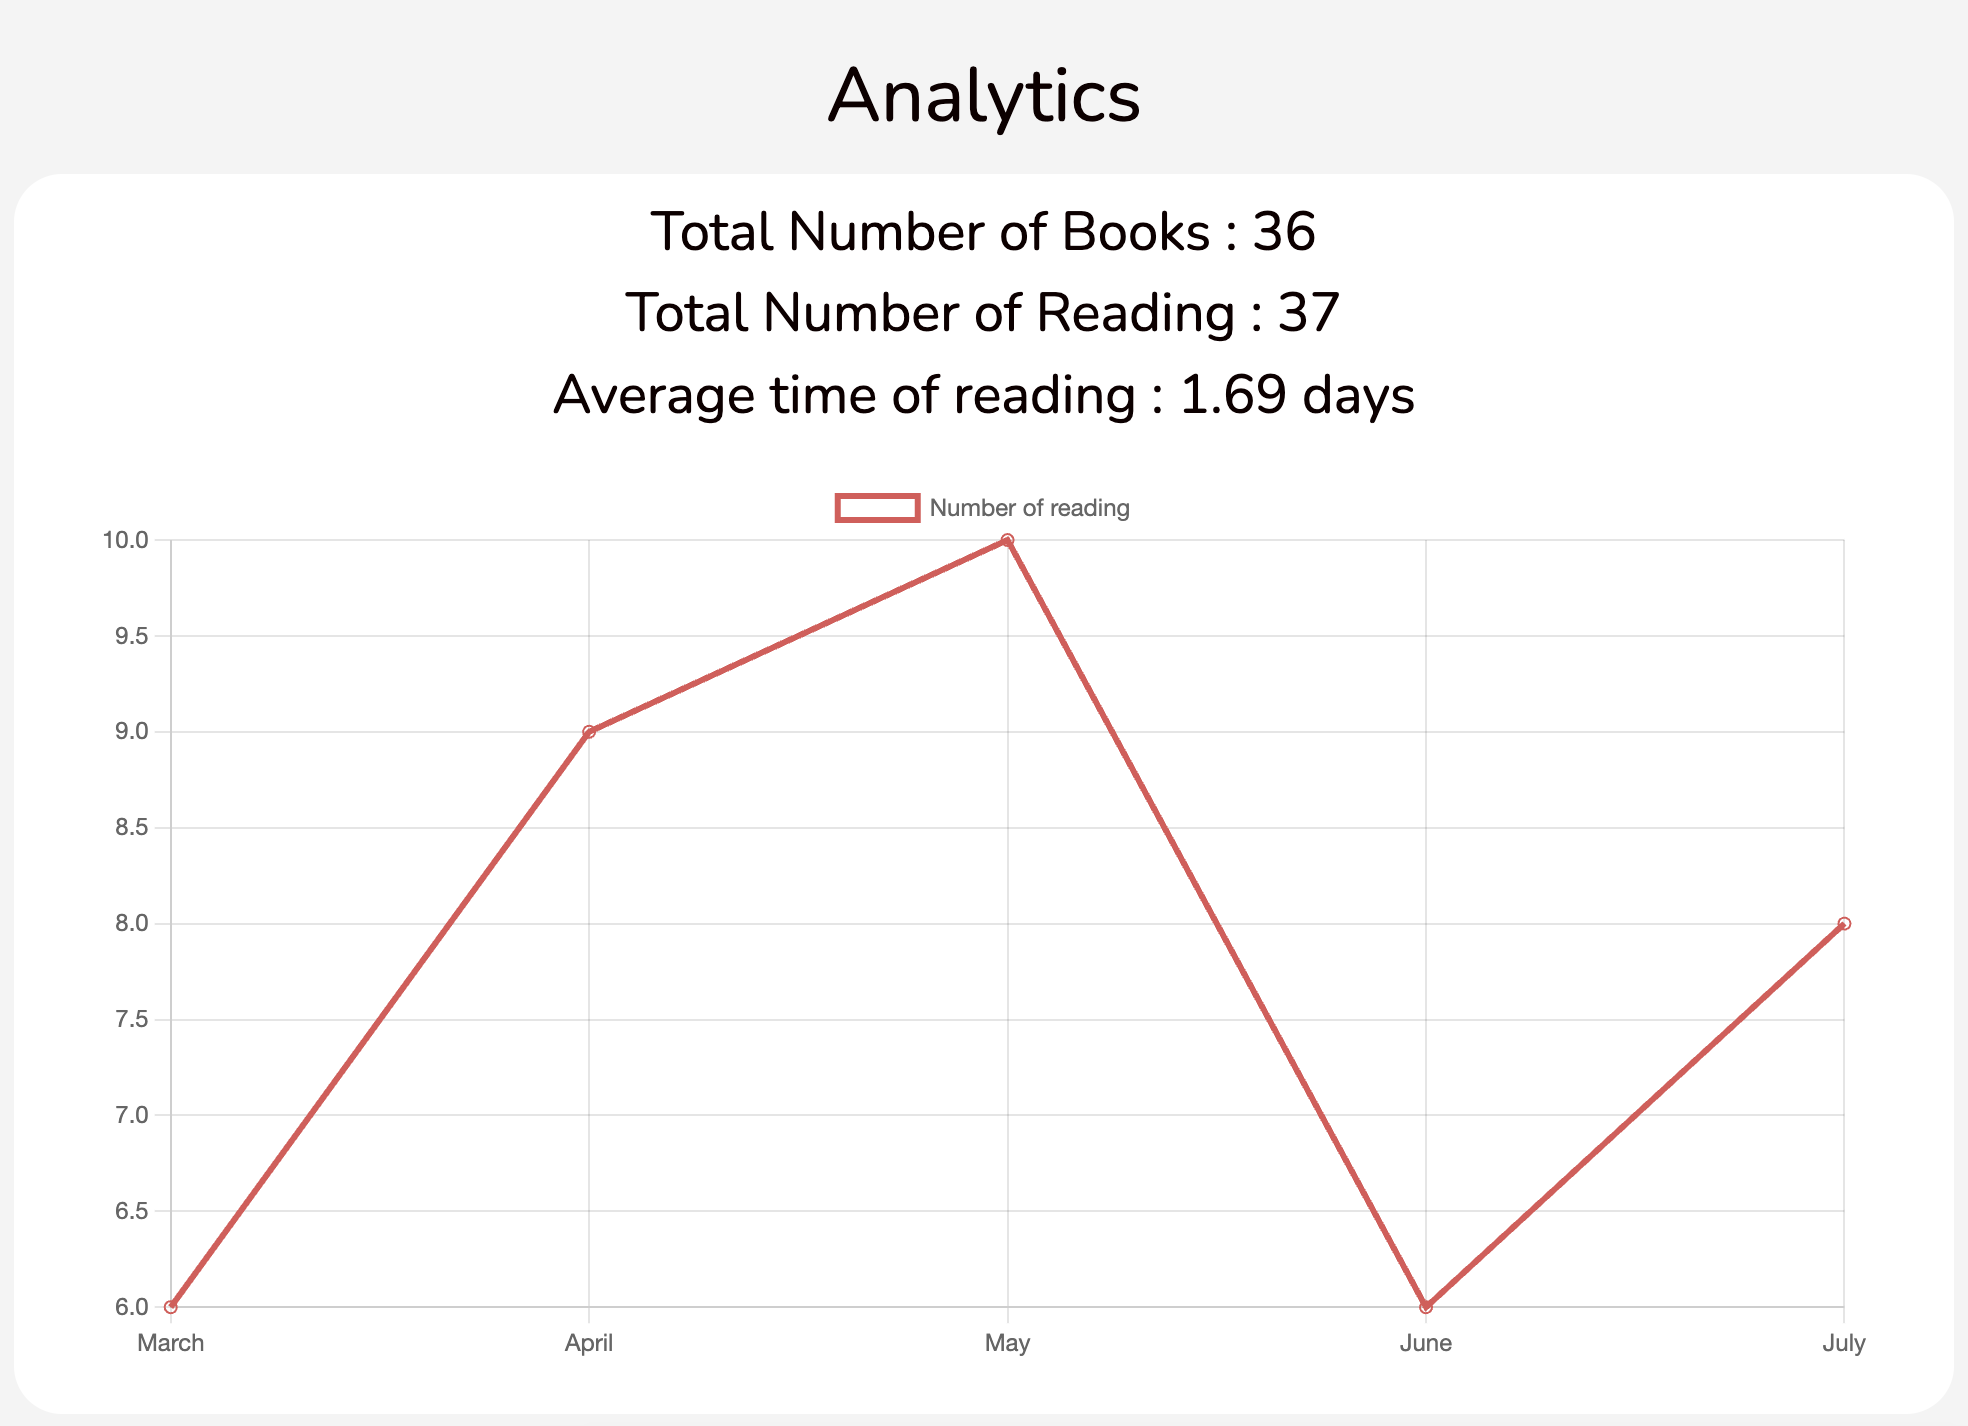
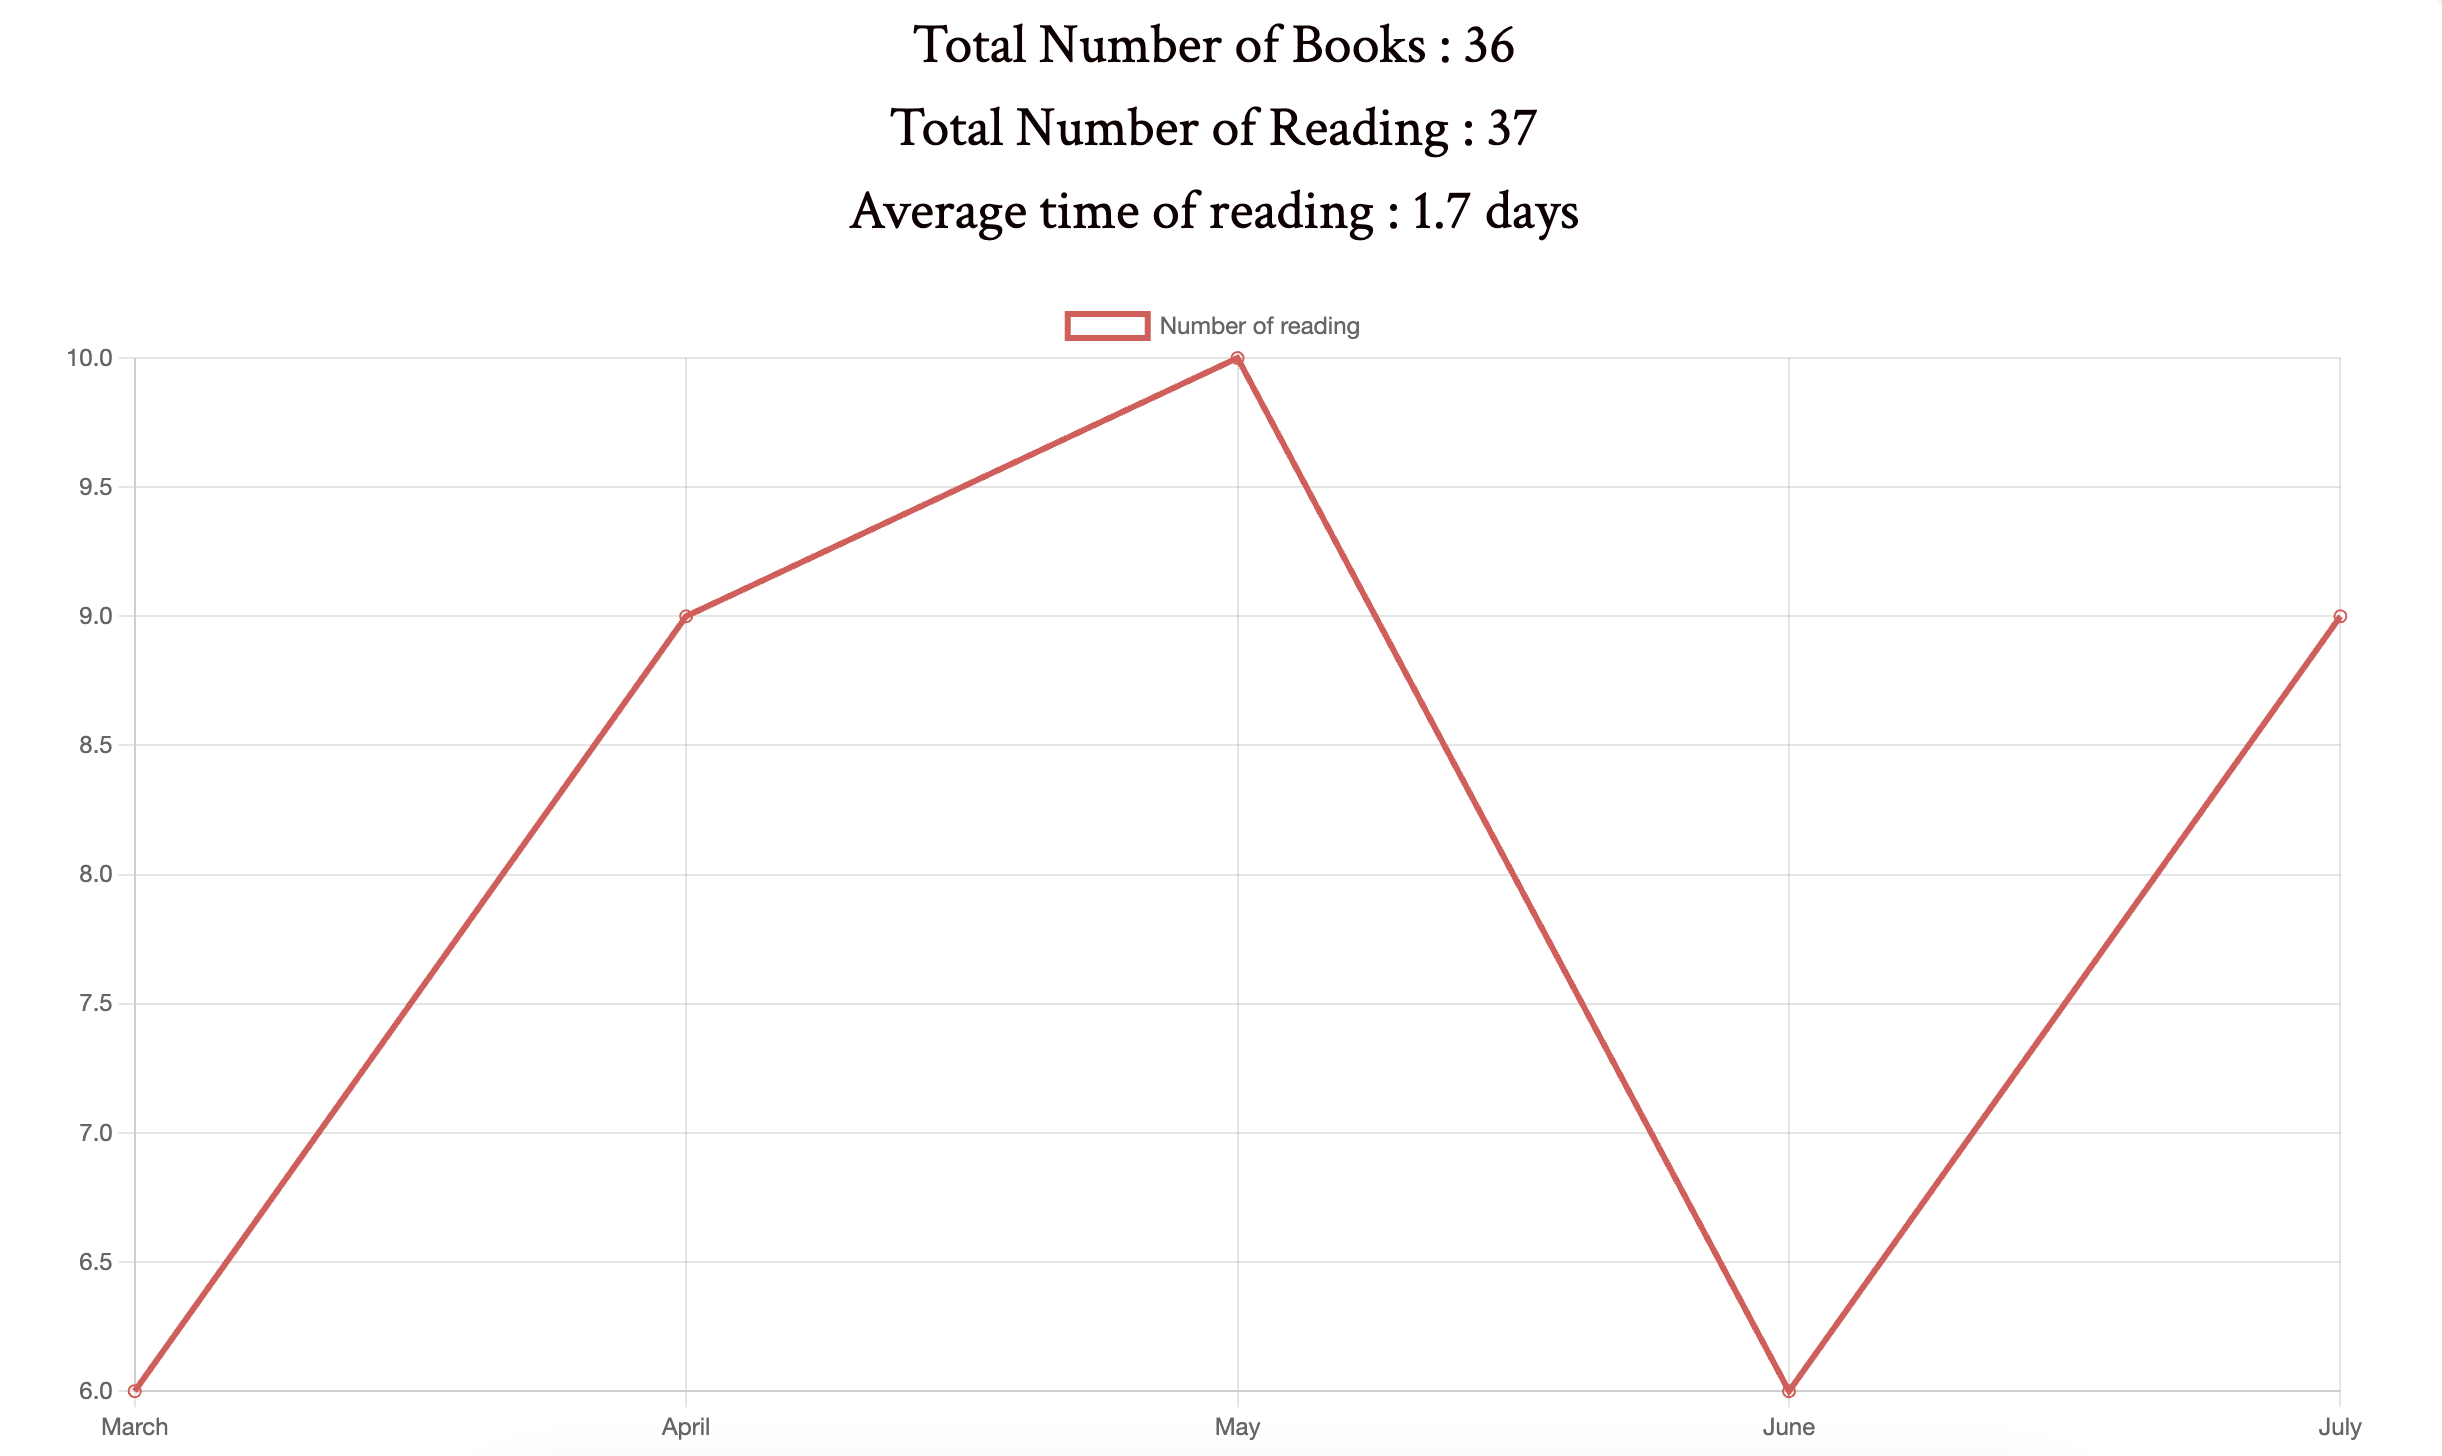
changed style

diff --git a/app/assets/stylesheets/pages/_home.scss b/app/assets/stylesheets/pages/_home.scss
@@ -73,8 +73,8 @@
 
   img {
     width: 40vw;
-    height: auto;
-    box-shadow: 2px 2px 2px gray;
+    height: 38vh;
+    box-shadow: 3px 3px 3px gray;
   }
 }
 
@@ -89,12 +89,28 @@
   .contents {
     grid-template-columns: 1fr;
   }
+
+  .content-feature {
+    img {
+      width: 70vw;
+      height: auto;
+      box-shadow: 3px 3px 3px gray;
+    }
+  }
 }
 
 // Small devices (landscape phones, 576px and up)
 @media (min-width: 576px) {
   .contents {
     grid-template-columns: 1fr;
+  }
+
+  .content-feature {
+    img {
+      width: 70vw;
+      height: auto;
+      box-shadow: 3px 3px 3px gray;
+    }
   }
 }
 
@@ -103,12 +119,28 @@
   .contents {
     grid-template-columns: 1fr 1fr;
   }
+
+  .content-feature {
+    img {
+      width: 40vw;
+      height: 38vh;
+      box-shadow: 3px 3px 3px gray;
+    }
+  }
 }
 
 // Large devices (desktops, 992px and up)
 @media (min-width: 992px) {
   .contents {
     grid-template-columns: 1fr 1fr;
+  }
+
+  .content-feature {
+    img {
+      width: 40vw;
+      height: 40vh;
+      box-shadow: 3px 3px 3px gray;
+    }
   }
 }
 

diff --git a/app/assets/stylesheets/config/_fonts.scss b/app/assets/stylesheets/config/_fonts.scss
@@ -1,9 +1,10 @@
 // Import Google fonts
 @import url('https://fonts.googleapis.com/css?family=Nunito:400,700|Work+Sans:400,700&display=swap');
+@import url('https://fonts.googleapis.com/css2?family=Crimson+Text&family=Josefin+Sans&display=swap');
 
 // Define fonts for body and headers
-$body-font: "Work Sans", "Helvetica", "sans-serif";
-$headers-font: "Nunito", "Helvetica", "sans-serif";
+$body-font: "Crimson Text", "Josefin Sans", "sans-serif";
+$headers-font: "Crimson Text", "Josefin Sans", "sans-serif";
 
 // To use a font file (.woff) uncomment following lines
 // @font-face {
